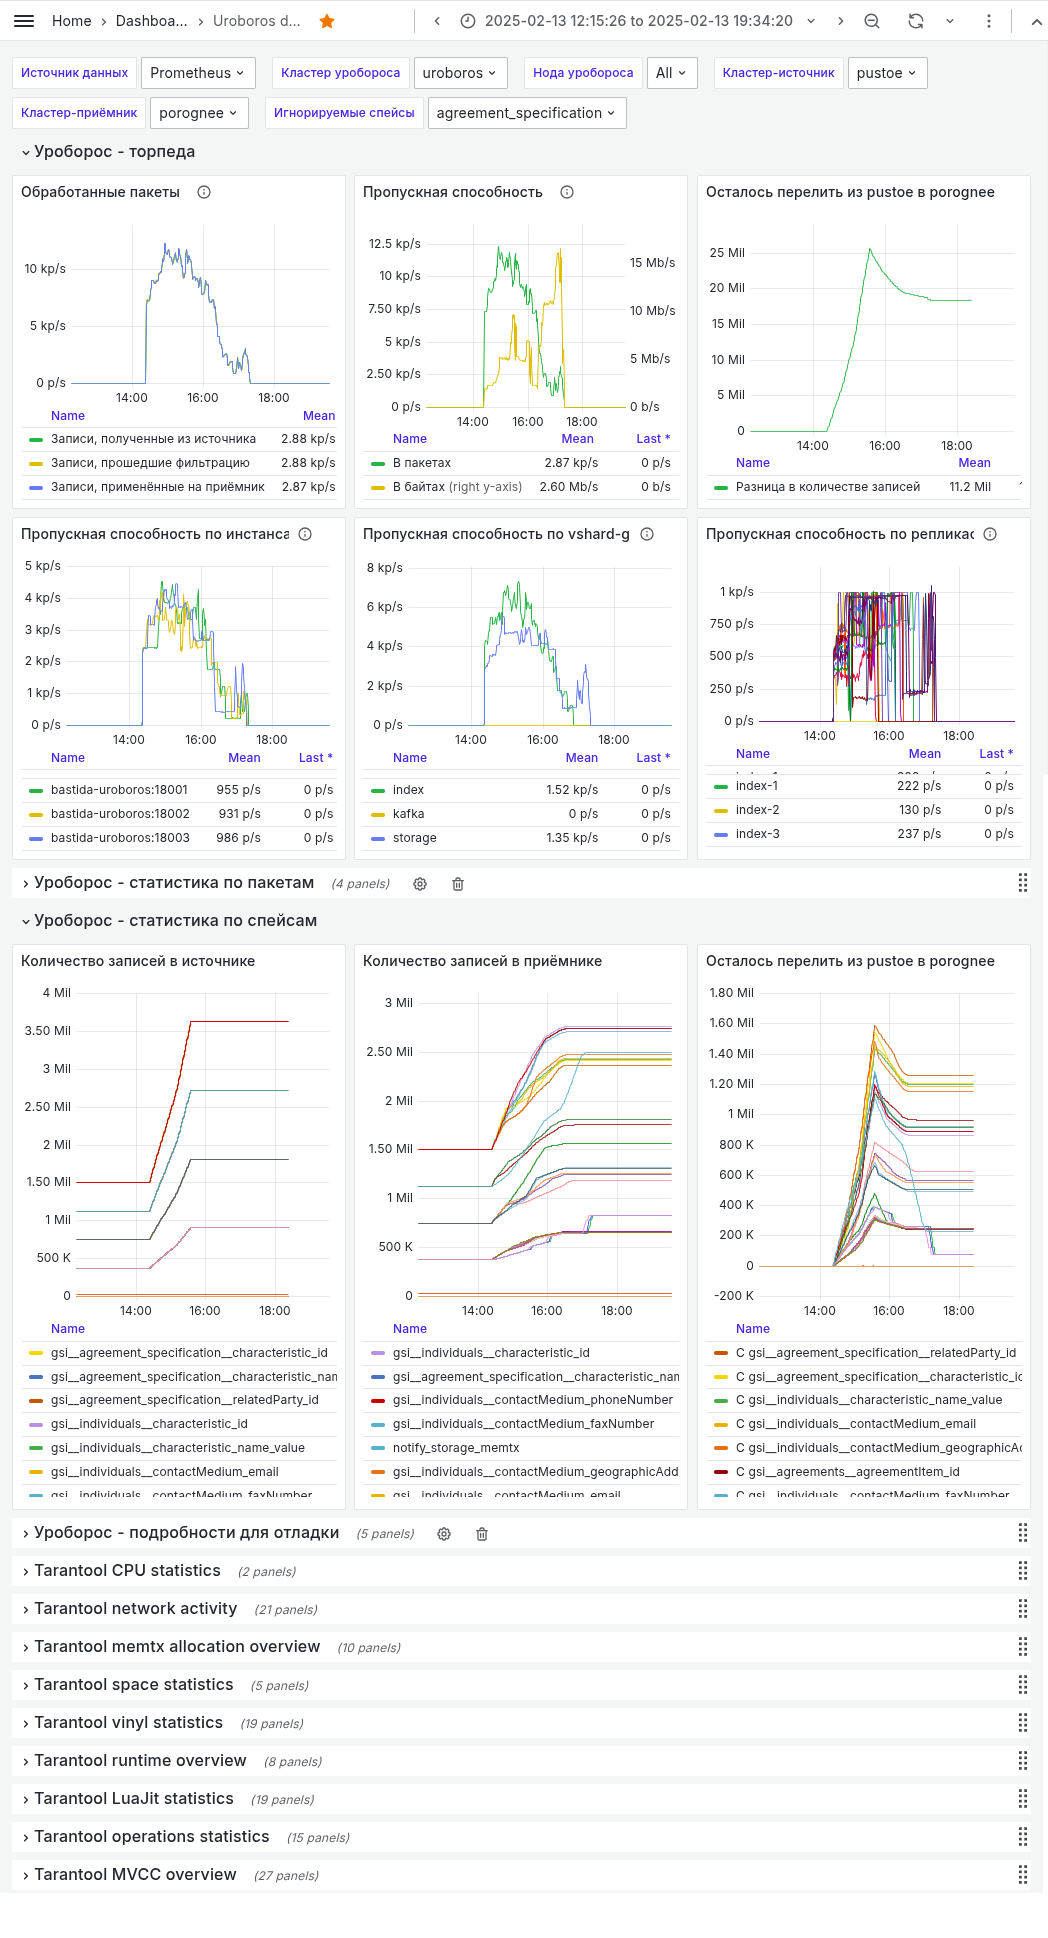
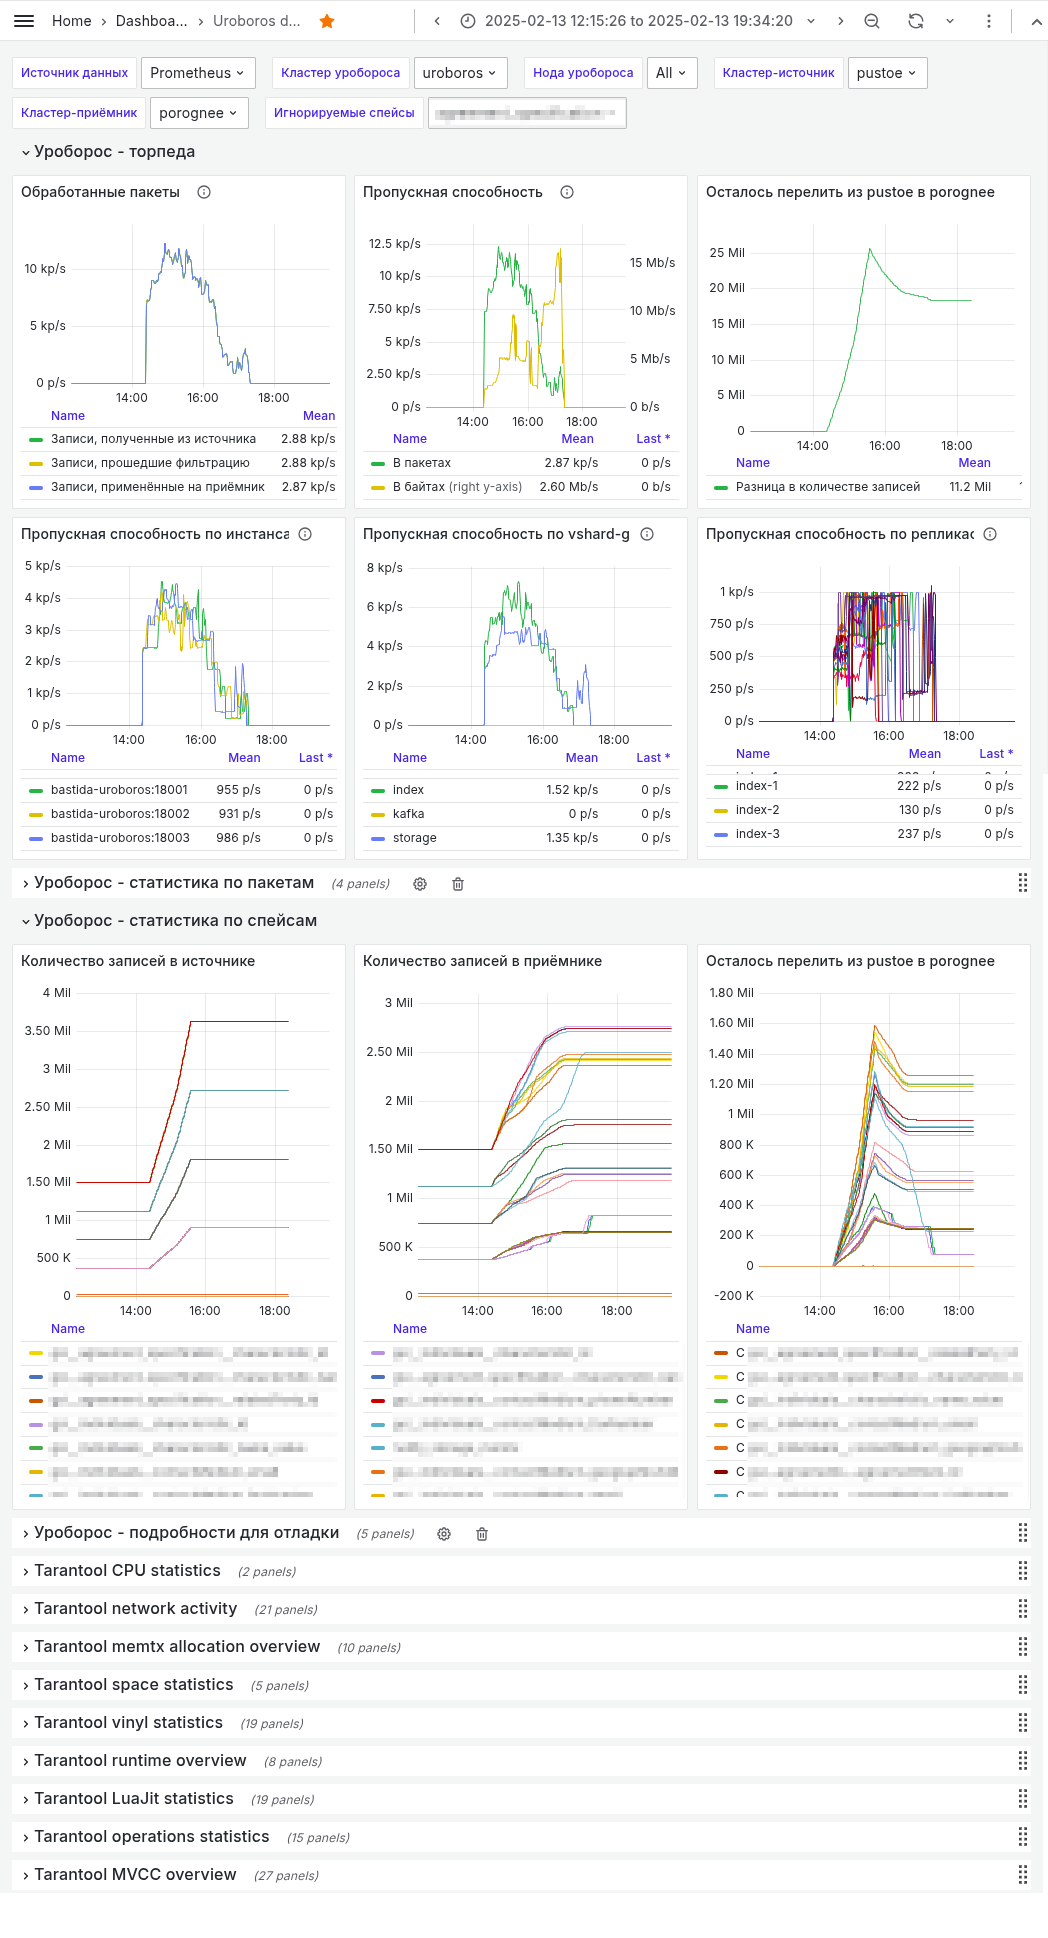
conceal space names in Grafana screenshot and config

diff --git a/docs/docs/plugins/ouroboros.md b/docs/docs/plugins/ouroboros.md
@@ -169,13 +169,13 @@ ouroboros:
     - kafka
     - storage
   disabled_spaces: # таблицы (спейсы) из указанных выше vshard-group, которые реплицировать НЕ следует
-    - notify_storage_vinyl
-    - distributed_index_queue_vinyl
-    - distributed_index_queue_memtx
-    - _repair_queue_v2
-    - _tmp_event_storage
-    - notify_storage_memtx
-    - event_storage
+    - disabled_space_1
+    - disabled_space_2
+    - disabled_space_3
+    - disabled_space_4
+    - disabled_space_5
+    - disabled_space_6
+    - disabled_space_7
   buckets_per_writer: 300 # степень параллелизации обработки. Не стоит изменять без консультации с разработчиками.
   reconnect_delay: 10 # задержка перед восстановлением коннекта к источнику
   skip_ddl_replication: false # отключить репликацию DDL
